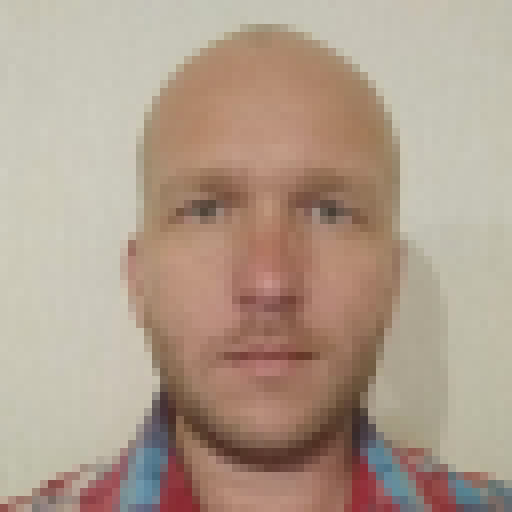
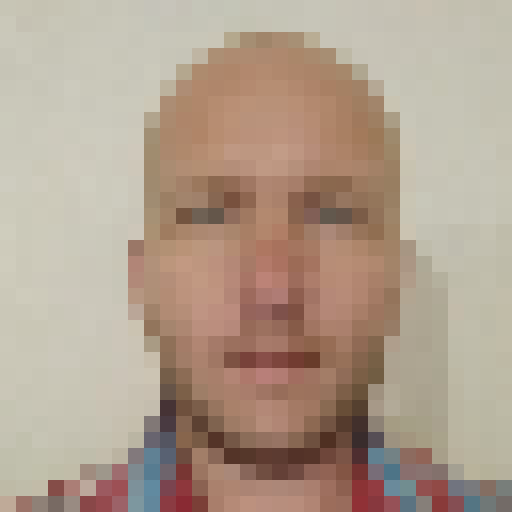
sub marine addded

diff --git a/client/src/Fighters.ts b/client/src/Fighters.ts
@@ -22,6 +22,9 @@ import Borodin from "./avatars/borodin.png";
 import Botov from "./avatars/botov.png";
 import Bushin from "./avatars/bushin.png";
 import Bahurinskiy from "./avatars/bahurinskiy.png";
+import Gunbin from "./avatars/gunbin.png";
+import Melnikov from './avatars/melnikov.png'
+
 
 import uncleJenyaWinSound from './audio/wins/uncle_jenya.m4a'
 import andrewWinSound from './audio/wins/andrew.m4a'
@@ -77,6 +80,8 @@ const fightersRaw: FighterType[]  = [
   { avatar: Botov, name: "special forces", winSound: specialForcesWinSound },
   { avatar: Bushin, name: "vecherniy", winSound: vecherniyWinSound },
   { avatar: Bahurinskiy, name: "low hp", winSound: lowHpWinSound },
+  { avatar: Gunbin, name: "astronaut" },
+  { avatar: Melnikov, name: "sub marine" },
 ];
 
 export default fightersRaw.map(

diff --git a/client/src/App.tsx b/client/src/App.tsx
@@ -40,7 +40,7 @@ function App() {
     Fighters[0]
   );
   const [hideFighters, setHideFighters] = React.useState(false);
-  const [currentScreen, setCurrentScreen] = React.useState(SCREENS.PLAYERS);
+  const [currentScreen, setCurrentScreen] = React.useState(SCREENS.START);
   const [player2, setPlayer2] = React.useState<Fighter>(Fighters[1]);
   const [winner, setWinner] = React.useState<Fighter>(Fighters[0]);
   const [muted, setMuted] = React.useState(false);
